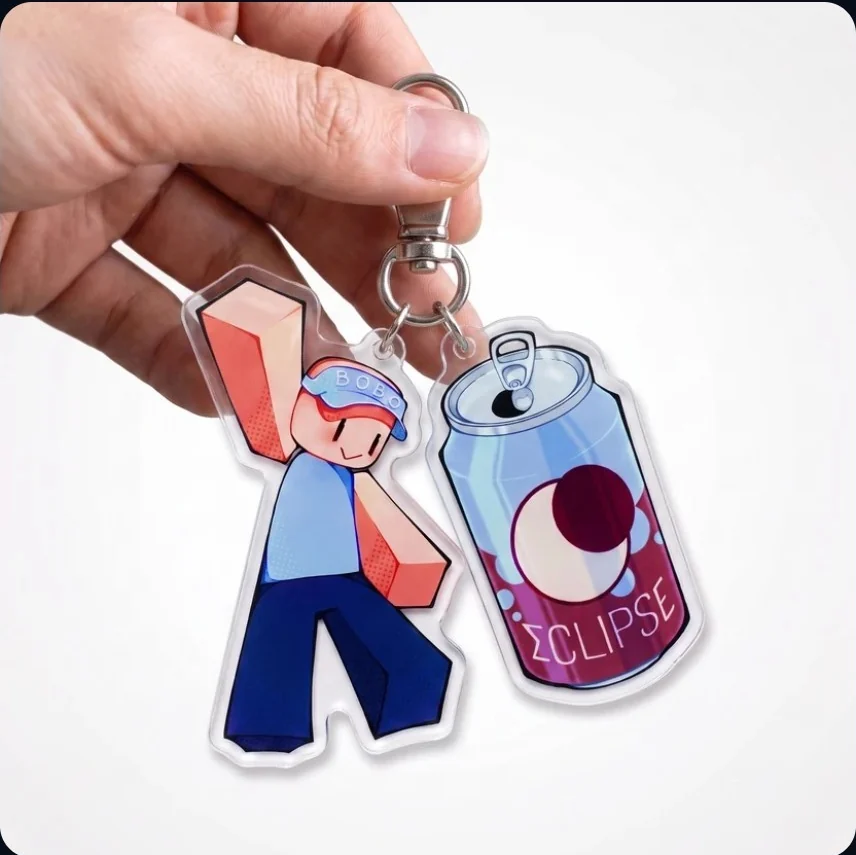
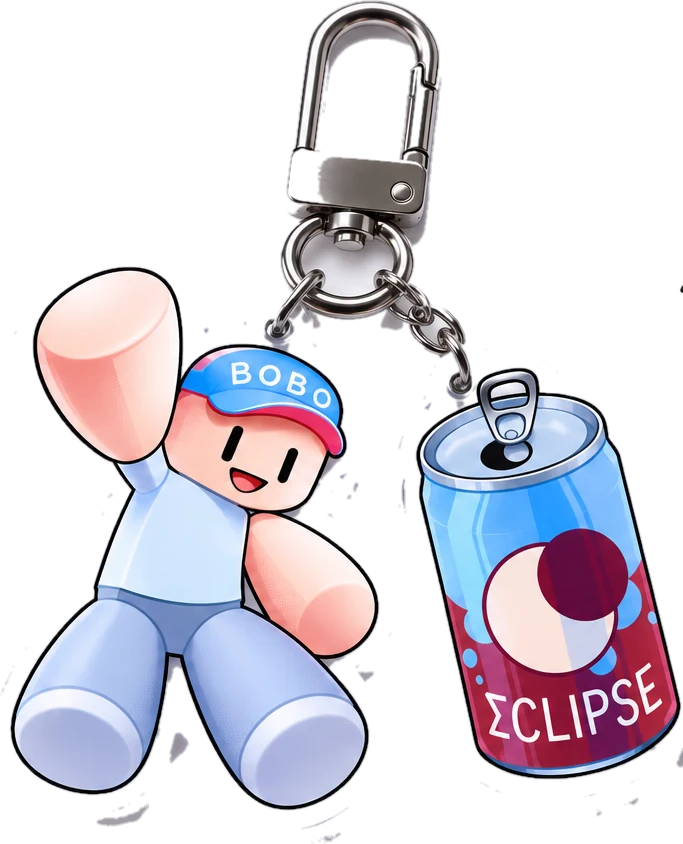
Update the EVADE products to the current design
The keychain in the portal was the RDC proof of concept: a blocky
Roblox-avatar charm. The commercialization deck carries the redrawn one —
Bobo in a BOBO cap beside the ECLIPSE can — so that is what the portal shows
now, cut out against transparency so it sits on the panel rather than in a
box of someone else's seamless.

The same page of that deck carries two things the portal did not know about:

A t-shirt, printed with the same artwork, whose right sleeve has an NFC
"TAP HERE" patch. So this drop does not have one launch method, it has two,
and they are a property of the product rather than the drop: a garment has a
seam to hide a chip in, and acrylic is cheap to print a code on and needs no
hardware. Each product card now carries its own method and where it sits.

A hardware close-up, which replaces the old "front and back" and "acrylic
finish" shots. Both showed the superseded design, and leaving them beside the
new keychain would have read as two different products.

A cut-out needs a PNG fallback, not a JPEG — JPEG has no alpha, so the
fallback would have put the background back. The fallback is quantised to 128
colours at 600px: mean error 2.33/255, and it only ever serves a browser
without WebP.

cutout.mjs gained --seed. Background enclosed by the product — the gap inside
the clasp ring — is not reachable from the frame edge, so the fill left it
opaque. Colour cannot find it either: that gap is in shadow, which puts it
[…]

diff --git a/src/routes/roblox.portal.submissions.$id.tsx b/src/routes/roblox.portal.submissions.$id.tsx
@@ -31,6 +31,7 @@ import {
   requirementSummary,
   shortDate,
 } from "@/lib/roblox-portal";
+import { cn } from "@/lib/utils";
 
 export const Route = createFileRoute("/roblox/portal/submissions/$id")({
   loader: ({ params }) => {
@@ -66,12 +67,27 @@ const STATUS_LABEL: Record<string, string> = {
 };
 
 /** Served as WebP with a JPEG fallback, like every other image in the portal. */
-function Shot({ name, alt, className }: { name: string; alt: string; className?: string }) {
+/**
+ * WebP with a fallback for browsers that lack it. The fallback is a PNG for a
+ * cut-out asset and a JPEG for a photograph — JPEG has no alpha, so serving one
+ * for a cut-out would put a box of background back around the product.
+ */
+function Shot({
+  name,
+  alt,
+  className,
+  transparent = false,
+}: {
+  name: string;
+  alt: string;
+  className?: string;
+  transparent?: boolean;
+}) {
   return (
     <picture>
       <source srcSet={`/roblox/portal/img/evade/${name}.webp`} type="image/webp" />
       <img
-        src={`/roblox/portal/img/evade/${name}.jpg`}
+        src={`/roblox/portal/img/evade/${name}.${transparent ? "png" : "jpg"}`}
         alt={alt}
         loading="lazy"
         className={className}
@@ -85,7 +101,7 @@ function SubmissionDetail() {
   const need = requirements.length ? requirementSummary(requirements) : null;
   const stage = PROGRAM.stages.find((x) => x.id === s.stage);
   const launch = activation ? LAUNCH_METHODS[activation.launch] : null;
-  const LaunchIcon = activation?.launch === "nfc" ? Nfc : QrCode;
+  const LaunchIcon = activation?.launch === "qr" ? QrCode : Nfc;
 
   return (
     <>
@@ -311,19 +327,42 @@ function SubmissionDetail() {
             }
           >
             <div className="grid gap-3 sm:grid-cols-2 lg:grid-cols-3">
-              {activation.products.map((p) => (
-                <Panel key={p.id} className="overflow-hidden">
-                  <Shot
-                    name={p.image}
-                    alt={p.alt}
-                    className="aspect-square w-full border-b border-border object-cover"
-                  />
-                  <div className="p-4">
-                    <h3 className="text-sm font-medium">{p.name}</h3>
-                    <p className="mt-1 text-xs leading-relaxed text-muted-foreground">{p.detail}</p>
-                  </div>
-                </Panel>
-              ))}
+              {activation.products.map((p) => {
+                const method = p.launch ? LAUNCH_METHODS[p.launch] : null;
+                const Icon = p.launch === "nfc" ? Nfc : QrCode;
+                return (
+                  <Panel key={p.id} className="flex flex-col overflow-hidden">
+                    <Shot
+                      name={p.image}
+                      alt={p.alt}
+                      transparent={p.transparent}
+                      className={cn(
+                        "aspect-square w-full border-b border-border",
+                        p.transparent ? "object-contain p-4" : "object-cover",
+                      )}
+                    />
+                    <div className="flex flex-1 flex-col p-4">
+                      <div className="flex flex-wrap items-center gap-2">
+                        <h3 className="text-sm font-medium">{p.name}</h3>
+                        {method ? (
+                          <Pill tone="primary" dot={false}>
+                            <Icon className="size-3" aria-hidden />
+                            {method.short}
+                          </Pill>
+                        ) : null}
+                      </div>
+                      <p className="mt-1 flex-1 text-xs leading-relaxed text-muted-foreground">
+                        {p.detail}
+                      </p>
+                      {p.placement ? (
+                        <p className="mono mt-3 border-t border-border pt-3 text-[10px] tracking-[0.1em] text-muted-foreground uppercase">
+                          {p.placement}
+                        </p>
+                      ) : null}
+                    </div>
+                  </Panel>
+                );
+              })}
             </div>
           </Section>
         </>

diff --git a/src/lib/roblox-portal.ts b/src/lib/roblox-portal.ts
@@ -280,14 +280,21 @@ export type ActivatedProduct = {
   id: string;
   name: string;
   detail: string;
-  /** Basename under /roblox/portal/img/evade, served as .webp with a .jpg fallback. */
+  /** Basename under /roblox/portal/img/evade. */
   image: string;
+  /** Cut out against transparency, so the fallback has to be a PNG not a JPEG. */
+  transparent?: boolean;
   alt: string;
+  /** How this product opens. Products in one drop need not agree. */
+  launch?: LaunchMethod;
+  /** Where the code or the chip physically sits. */
+  placement?: string;
 };
 
 export type Activation = {
+  /** The method the drop leads with. Individual products may differ. */
   launch: LaunchMethod;
-  /** Where the code physically sits on the product. */
+  /** Where the code physically sits on the product that leads. */
   codePlacement: string;
   experience: {
     name: string;
@@ -312,8 +319,8 @@ export type Activation = {
 
 export const ACTIVATIONS: Record<string, Activation> = {
   "amp-001": {
-    launch: "qr",
-    codePlacement: "Printed on the back of the ECLIPSE can charm",
+    launch: "both",
+    codePlacement: "A printed code on the keychain, an NFC patch in the t-shirt sleeve",
     experience: {
       name: "Cola Run",
       kind: "Immersive mini-game",
@@ -323,7 +330,7 @@ export const ACTIVATIONS: Record<string, Activation> = {
       image: "cola-run",
       alt: "The Cola Run splash screen: Bobo the cat flying through glowing ECLIPSE cola cans under the EVADE COLA RUN title, over an ACTIVATED BY MEDIALIFE lockup.",
       beats: [
-        "Buyer points a phone camera at the code on the can",
+        "Buyer taps the sleeve patch, or points a camera at the code on the can",
         "Cola Run opens in the browser in about a second",
         "They play the run and collect cans",
         "The cosmetic unlocks and follows them back into the experience",
@@ -342,23 +349,28 @@ export const ACTIVATIONS: Record<string, Activation> = {
       {
         id: "keychain-set",
         name: "Activated keychain set",
-        detail: "Two charms: the EVADE character and the ECLIPSE can",
+        detail: "Two acrylic charms — Bobo and the ECLIPSE can — on a swivel clasp",
         image: "keychain-set",
-        alt: "A hand holding the two-charm acrylic keychain set: an EVADE character charm and an ECLIPSE cola can charm.",
+        transparent: true,
+        launch: "qr",
+        placement: "Printed code on the back of the can charm",
+        alt: "The two-charm acrylic keychain set: Bobo in a blue BOBO cap with one arm raised, beside an ECLIPSE cola can charm, hanging from a steel swivel clasp.",
       },
       {
-        id: "front-back",
-        name: "Front and back",
-        detail: "The code sits on the reverse of the can charm",
-        image: "front-back",
-        alt: "Both charms photographed front and back, with the scannable code printed on the back of the can charm.",
+        id: "tshirt",
+        name: "Activated t-shirt",
+        detail: "Bobo and the can on the front, chip in the sleeve patch",
+        image: "tshirt",
+        launch: "nfc",
+        placement: "NFC patch on the right sleeve",
+        alt: "A black t-shirt printed with Bobo and the ECLIPSE can under a hand-lettered BOBO wordmark, with a red TAP HERE NFC patch on the right sleeve.",
       },
       {
-        id: "acrylic",
-        name: "Acrylic finish",
-        detail: "Double-sided print, clear acrylic, swivel clasp",
-        image: "acrylic",
-        alt: "The keychain set lit against black, showing the clear acrylic edge glow and the swivel clasp.",
+        id: "details",
+        name: "Hardware",
+        detail: "Steel swivel clasp and split rings, on a polished acrylic edge",
+        image: "details",
+        alt: "A close-up of the keychain's steel swivel clasp and split rings against the polished edge of the acrylic charm.",
       },
     ],
   },
